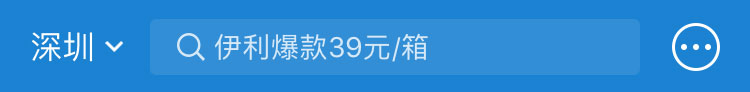
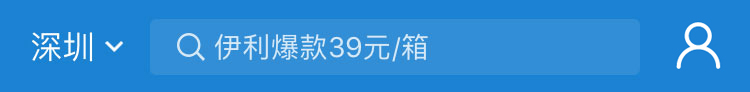
整理流程跳转

Changed region(s): [[0.8893, 0.2391, 0.9813, 0.7826]]

diff --git a/main/common.html b/main/common.html
@@ -28,7 +28,7 @@
 				vertical-align: middle;
 			}
 			.starwarp .iconfont{
-				font-size: 20px;
+				font-size: 25px;
 				padding: 5px;
 			}
 			.starwarp .icon-xingxing0{
@@ -57,7 +57,7 @@
 			<div class="starwarp"><span>服务:</span><div id="starServer" class="stars"></div></div>
 		</div>
 		<textarea class="common" rows="4" placeholder="欢迎留下您的评价与建议~"></textarea>
-		<div class="wb-footer wb-btn btn-red">提交</div>
+		<div id="submit" class="wb-footer wb-btn btn-red">提交</div>
 	</body>
 
 	<script src="http://libs.baidu.com/jquery/2.0.0/jquery.min.js"></script>
@@ -66,8 +66,13 @@
 	<script src="../js/layer.js" charset="utf-8"></script>
 	<script type="text/javascript" charset="utf-8">
 		$(function(){
-			new StarScore(document.getElementById("starTaste")).init()
-			new StarScore(document.getElementById("starServer")).init()
+			new StarScore(document.getElementById("starTaste")).init();
+			new StarScore(document.getElementById("starServer")).init();
+			//提交
+			$("#submit").click(function(){
+				layerUtil.toast("感谢您的评价与建议~");
+				openWindow("../main/main.html");
+			})
 		});
 	</script>
 

diff --git a/js/app.js b/js/app.js
@@ -92,7 +92,7 @@ function ajaxData(url,success,param,err,hideWait) {
 		//重试次数,默认3次
 		if(!param.tryNum) param.tryNum=0;
 		if(param.tryNum>=3) {
-			mui.toast("请求超时,请重试. v"+param.version);
+			mui.toast("请求超时,请重试");
 			return;
 		}
 		param.tryNum++;
@@ -139,7 +139,7 @@ function ajaxData(url,success,param,err,hideWait) {
 					//请求异常
 					var noToastErr=err&&err(data);//错误回调 返回true则不提示异常
 					if (noToastErr!=true) {
-						layerUtil.toast(data.Msg+" v"+param.version);
+						layerUtil.toast(data.Msg);
 					}
 				}
 			},
@@ -157,7 +157,7 @@ function ajaxData(url,success,param,err,hideWait) {
 					//错误回调 返回true则不提示异常
 					var noToastErr=err&&err();
 					if (noToastErr!=true) {
-						layerUtil.toast("网速不给力,请重试."+xhr.status+" v"+param.version);
+						layerUtil.toast("网速不给力,请重试."+xhr.status);
 					}
 				}
 			}

diff --git a/user/center.html b/user/center.html
@@ -25,11 +25,11 @@
 			.userinfo .usericon{
 				width: 64px;;
 				height: 64px;
-				margin: 12px 0 8px 18px;
+				margin: 12px 0 8px 28px;
 				border-radius: 50%;
 			}
 			.userinfo .username{
-				margin-left: 20px;
+				margin-left: 28px;
 			}
 			.userinfo .balance{
 				position: absolute;
@@ -64,6 +64,7 @@
 			</div>
 			<div id="ticketList"></div>
 		</div>
+		<p class="wb-footer wb-btn btn-red">进入小幸运商城</p>
 	</body>
 
 	<script src="http://libs.baidu.com/jquery/2.0.0/jquery.min.js"></script>
@@ -75,6 +76,10 @@
 			var score=getScoreStr(5);
 			var ticket=getTicketStr(10);
 			$("#ticketList").html(score+ticket);
+			
+			$(".wb-footer").click(function(){
+				openWindow("../main/main.html");
+			})
 		});
 	</script>
 

diff --git a/main/main.html b/main/main.html
@@ -12,9 +12,20 @@
 		<title>生活处处充满小幸运</title>
 		
 		<link rel="stylesheet" href="../css/app.css">
+		<style type="text/css">
+			.usercenter{
+				position: absolute;
+				top: 0;
+				right: 0;
+				display: inline-block;
+				width: 60px;
+				height: 40px;
+			}
+		</style>
 	</head>
 
 	<body>
+		<a class="usercenter" href="../user/center.html"></a>
 		<img src="../img/main-top1.jpg"/>
 		<img src="../img/main-top2.jpg"/>
 		<a href="top20.html"><img src="../img/main-s1.jpg"/></a>

diff --git a/css/app.css b/css/app.css
@@ -19,6 +19,7 @@ body {
 html,body{height: 100%}
 ul{list-style-type: none}
 /*输入框光标对齐*/
+textarea,
 input,
 input::-webkit-input-placeholder{
 	font-size: 16px;
@@ -171,7 +172,7 @@ img{width:100%; height:auto; vertical-align:bottom; }
 /*蓝色按钮*/
 .btn-blue{background-color: #1AA8E3}
 /*红色按钮*/
-.btn-red{background-color: #E85045}
+.btn-red{background-color: #E83827}
 /*红色圆角按钮*/
 .btn-red-radius{
 	display: inline-block;

diff --git a/main/pay.html b/main/pay.html
@@ -18,7 +18,7 @@
 		<style type="text/css">
 			.allpricetip{
 				font-size: 20px;
-				margin-top: 30px;
+				margin-top: 20px;
 				text-align: center;
 				color: #FD482C;
 			}
@@ -27,7 +27,7 @@
 				border: 1px solid #FD482C;
 				border-radius: 5px;
 				width: 80%;
-				margin: 25px 10%;
+				margin: 15px 10%;
 				text-align: center;
 			}
 			.allprice::-webkit-input-placeholder{

diff --git a/main/shopdetail.html b/main/shopdetail.html
@@ -33,7 +33,7 @@
 			<img src="../img/sdtail7.jpg"/>
 			<img src="../img/sdtail8.jpg"/>
 		</div>
-		<p class="wb-footer wb-btn btn-red">买单领小幸运红包</p>
+		<a href="../main/pay.html"><p class="wb-footer wb-btn btn-red">买单领小幸运红包</p></a>
 	</body>
 	
 	<script src="http://libs.baidu.com/jquery/2.0.0/jquery.min.js"></script>

diff --git a/css/ticket.css b/css/ticket.css
@@ -13,6 +13,7 @@
 .tk-warp .tkicon{
 	width: 46px;
 	height: 46px;
+	border: 1px solid white;
 	margin: 10px 10px 10px 16px;
 	border-radius: 50%;
 	vertical-align: middle;

diff --git a/main/takebag.html b/main/takebag.html
@@ -47,7 +47,7 @@
 			}
 			.takemoney{
 				font-size: 40px;
-				margin-top: 35px;
+				margin-top: 25px;
 			}
 			.taketip{
 				padding: 8px;
